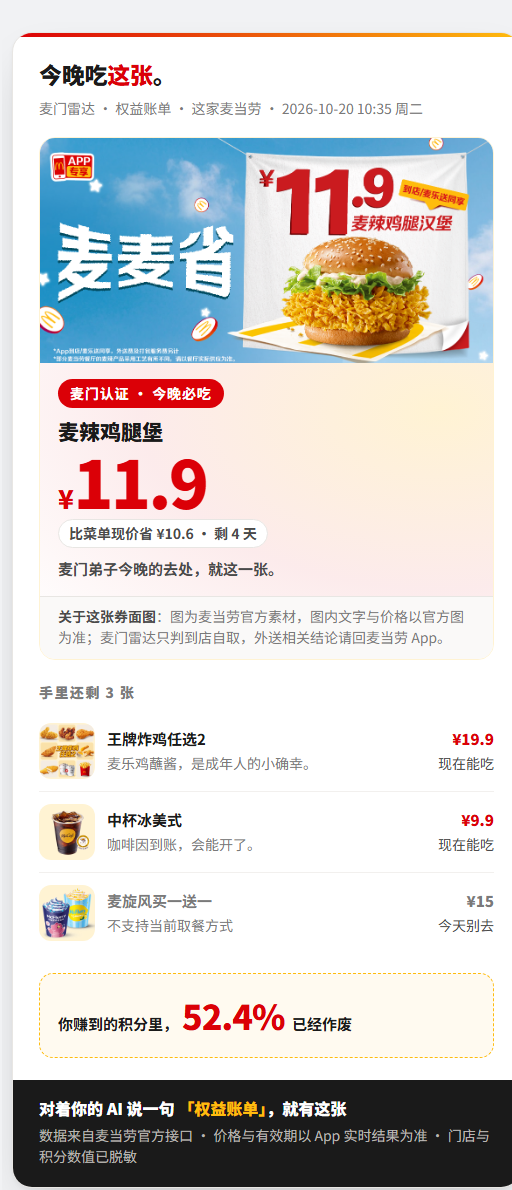
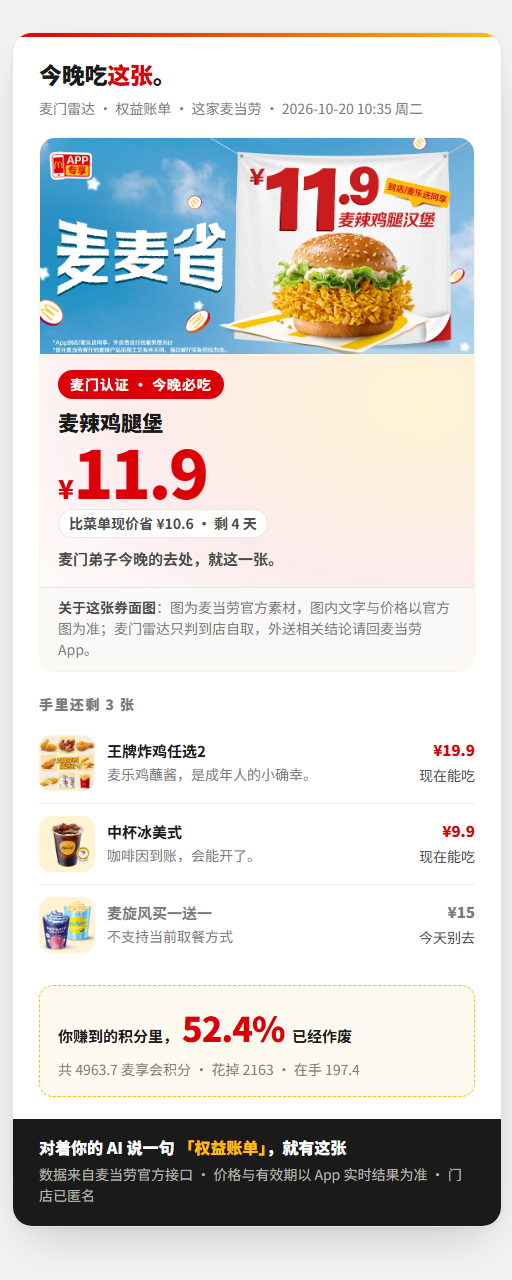
卡片收成两档：脱敏只剩门店身份一条硬线
「生成卡片」不再反问"要不要脱敏"，直接交分享版，结尾一行给「发群」换档词。
反问是把判断责任甩给用户，而选错的那一次（选了"看全"又转发出去）收不回来。

分享版放宽：积分数值绝对值与券名不再脱。券名可核销靠的是 code 不是标题，
积分数值不定位人；收掉之后卡片既答不了"那是哪张券"也答不了"还差多少分"。
于是脱敏只剩一条硬线＝门店身份——实测店名「麦当劳深圳龙胜地铁站D出口餐厅」
里嵌着城市+地铁站+出口编号，"只抹地址、留着店名"在数据上做不到，只能整块换称谓。

三处让它不只靠文档：check-share 新增【模型不许分叉】逐字节比对两版 model；
积分绝对值与真券名改成正向断言（谁改回脱敏就红）；门店定位片段按 4 字滑窗拉黑，
发群卡的店名写死匿名称谓、不看开关。

带门店地址的那张自用卡片撤出交付档：demo 不带 --share 只落 dist/demo.txt，
少一个出口就少一种"截错图发进群"。keepTitles / categorize / CATEGORY_RULES /
points.showAbsolute 随旧口径一起退役。入口词按用户嘴里的那句写
（发群 / 发到群里 / 给朋友看看），「传播版」「拉新」属内部命名，不进回复。
README 三图并两张，统一裁到 512×1280。

diff --git a/SKILL.md b/SKILL.md
@@ -110,7 +110,7 @@ description: 麦门雷达 —— 麦当劳（金拱门 / McDonald's / mcdonalds 
 | 积分能换啥 | `query-my-account` + `mall-points-products` | 按 元值/积分 性价比选锚点做具象化 | 账户级＋全国（积分余额是账户的，商城目录不分店） |
 | 替我领取优惠券 | `available-coupons` 报数 → 等用户回「领」 → `auto-bind-coupons` → 再查一次做 diff | 新增哪几张、哪几张大概用不上 | 账户级（入参无 storeCode，不分店） |
 | 绑店 / 换店 / 出差 | 零输入流程，见下「绑店 / 换店」节 | 收藏候选编号 → 确认 → `bindStore` 落盘 | 门店级（本行就是定这家店） |
-| 生成卡片 | 同一 model；账单版 `share:true`，传播版 `share:true + keepTitles:true` | 两种脱敏口径的 HTML，见下 | 门店级数据／卡片脱店名——对话里那句点名仍要说 |
+| 生成卡片 | 同一份脱敏 model 出两张：默认 `--share`，话里带"群"再加 `--propagate` | 分享版 / 发群版两张 HTML，差别在版面不在脱敏，见下 | 门店级数据／卡片脱店名——对话里那句点名仍要说 |
 | 最近有啥活动 | `campaign-calendar` | 活动日历速览（次要模块，问才答） | 全国（实测入参无 storeCode、响应无任何地域键，**不许**挂店名） |
 | 上新了什么 / 最近上新 | `query-meals` 引用 tags 精确等于 `上新` | 当期全量新品：现价 + 麦金卡价（如有）；权益账单里常驻一段 | 门店级（实测两店有 20 个店独占单品，新品随店不同） |
 
@@ -144,31 +144,40 @@ description: 麦门雷达 —— 麦当劳（金拱门 / McDonald's / mcdonalds 
 
 ## 输出形状
 
-**使用面**：`src/render-text.mjs` 的单一事实版式。纯 Unicode，聊天/终端/README 四处通用，32 格时段条。
+**使用面（对话里，不是卡片）**：`src/render-text.mjs` 的单一事实版式。纯 Unicode，聊天/终端/README 四处通用，32 格时段条，印**真店名**——它的作用就是让用户看清此刻判的是哪家店，从来不该被转发，所以 `node src/demo.mjs` 不带 `--share` 时只落 `dist/demo.txt`，**不出 HTML**。带地址的那张卡片不是交付档：少一个出口就少一种"截错图发进群"。
 
-**账单分享面**：`src/render-html.mjs` 小票版卡片。同一份 `buildModel()` 输出，渲染器都不许碰原始响应。
+**分享面（默认交付的那一张）**：`src/render-html.mjs` 小票版卡片。同一份 `buildModel()` 输出，渲染器都不许碰原始响应。
 
-**拉新传播面**：`src/render-propagate.mjs`。目标不是"给自己看清楚了"，而是"发到群里别人会问这是啥"——首屏只放一张官方券面图 + 一个到手价 + 一句麦门腔，最小字号硬底线 14px（现状账单卡 10px，微信群 300px 显示宽度下实测不可读）。
+**发群面**：`src/render-propagate.mjs`。目标不是"给自己看清楚了"，而是"发到群里别人会问这是啥"——首屏只放一张官方券面图 + 一个到手价 + 一句麦门腔，最小字号硬底线 14px（现状账单卡 10px，微信群 300px 显示宽度下实测不可读）。
 
-脱敏在**模型层**做，不在渲染层做——否则文本版会漏。两个面的口径**不同**，因为敏感的东西不同：
+脱敏在**模型层**做，不在渲染层做——否则文本版会漏。**只剩一条硬线：门店身份**，其余差异全归版面：
 
-| | 账单分享版 `share:true` | 传播版 `share:true + keepTitles:true` |
-|---|---|---|
-| 券码 / 券id / accountId | 模型里就没有（`raw:null`） | 同 |
-| 门店名 | 脱（「一家麦当劳餐厅」） | 脱（「这家麦当劳」） |
-| 积分数值绝对值 | 脱（只出百分比） | 同 |
-| **券名** | **脱**（收成品类名） | **不脱**——可核销的是 `code` 不是标题，而传播恰恰需要真名 |
-| **券面图** | 不脱 | 不脱——官方营销素材，`couponImage`/`couponBand` 是刻意不受 `share` 影响的字段 |
+| | 使用面播报 | 分享版 `--share` | 发群版 `--propagate` |
+|---|---|---|---|
+| 券码 / 券id / accountId | 渲染层从不印 | 模型里就没有（`raw:null`） | 同 |
+| traceId / 拉取时刻 | 印（自用凭据） | 模型里清空 | 同 |
+| **门店身份** | **真店名**（点名就是它的作用） | 脱（「一家麦当劳餐厅」） | 脱（「这家麦当劳」，写死在渲染器里，不看开关） |
+| 积分数值绝对值 | 印 | **印**（原本脱，已废） | 印 |
+| 券名 | 真名 | **真名**（原本收成品类，已废） | 真名 |
+| 券面图 / 官方横幅 | — | 不脱 | 不脱——`couponImage`/`couponBand` 是刻意不受 `share` 影响的字段 |
+| 时间 | 倒计时 | 绝对时间（转发件不该带会走的数） | 绝对时间 |
+
+积分数值与券名不再脱：券名可核销靠的是 `code` 不是标题，积分数值不定位人；把它们收掉之后卡片既答不了"那是哪张券"也答不了"还差多少分"，等于白做。**店名为什么必须整块脱**：实测「麦当劳深圳龙胜地铁站D出口餐厅」里嵌着城市+地铁站+出口编号，"只抹地址、留着店名"在数据上做不到。
+
+结构上有三处让这条口径不只靠文档：分享版与发群版**共用同一份 model**（`src/check-share.mjs`【模型不许分叉】逐字节比对）、发群卡的店名写死匿名称谓、积分绝对值与真券名是**正向断言**（谁改回脱敏，闸门红）。
 
 取图降级链（`render-propagate.mjs`，顺序由真实账号实测决定）：① 券自带 `couponImage`（4/4 覆盖，含「任选」类菜单无 SKU 的券）② 门店券 `productCode` join 菜单图 ③ 券名模糊匹配菜单实体 ④ 盲盒占位。**③ 只许服务取图，绝不进金额口径**——图配错顶多难看，钱算错是事故。
 
+**入口词按用户嘴里的那句写**：说「生成卡片 / 出个卡片 / 分享版」→ 分享版；说「发群 / 发到群里 / 给朋友看看 / 炫一下」→ 发群版。**别把「传播版」「拉新」写进回复**——那是内部命名，用户不这么说话，说了也对不上。
+
 **生成卡片的链路（写死，别临场发挥）**——在技能目录（SKILL.md 所在目录）内按序尝试：
 
-1. `out/query-my-coupons.json` 存在 → 直接 `node src/demo.mjs --share`（`--store <code>` 可指定门店）；要出**发群用的传播版**则 `node src/demo.mjs --propagate`。
+1. `out/query-my-coupons.json` 存在 → 直接 `node src/demo.mjs --share`（`--store <code|别名>` 可临时指定门店）；用户话里带了群字样的加 `--propagate`，两个 flag 同时给就一次出两张。
 2. 没有 `out/` 但技能目录有 `.env` → 先逐个 `node tools/probe-mcp.mjs <tool>`（`query-my-coupons` / `query-my-account` / `query-nearby-stores --args '{"searchType":1,"beType":1}'` / `query-meals --args '{"storeCode":"<code>","beType":1,"orderType":1}'`）落进 `out/`，再跑 demo。门店级工具按 storeCode 键落盘（`out/meals.<code>.json`），别手改文件名。
 3. 两样都没有 → 直接跑 demo（自动退回 `fixtures/` 样例），并**明示"样例数据卡片（快照日期见 fixtures）"**，不得冒充实时。
-4. 产出 `dist/demo.share.html`（账单分享版）或 `dist/propagate.html`（传播版）。对话里只给文件路径 + 一句说明（遵守输出纪律）。**绝不手写 HTML 卡片，绝不把原始 MCP JSON 直接喂渲染器**——渲染只走脚本一条路。
-5. 出卡片前必须三个闸门都过：`node src/check.mjs`（判定与官方一致）+ `node src/check-share.mjs`（脱敏与取图口径）+ `node src/check-store.mjs`（门店由绑定决定、菜单与门店同源）。任一不过，不许交付。
+4. 产出 `dist/demo.share.html`（分享版）或 `dist/propagate.html`（发群版）。对话里只给文件路径 + 一句说明（遵守输出纪律）。**绝不手写 HTML 卡片，绝不把原始 MCP JSON 直接喂渲染器**——渲染只走脚本一条路。
+5. **结尾一行给换档提示，不许先问**：默认直接交出分享版，然后一句"要发群说『发群』"。反问"你要不要脱敏"是最差的形态——用户不知道两张卡差在哪，而选错的那一次（选了"看全"又转发出去）收不回来；先给安全的那张、再给一行换档词，两档都让人发现，且一次问都不用。
+6. 出卡片前必须三个闸门都过：`node src/check.mjs`（判定与官方一致）+ `node src/check-share.mjs`（脱敏与取图口径）+ `node src/check-store.mjs`（门店由绑定决定、菜单与门店同源）。任一不过，不许交付。
 
 ## 麦门语气（硬规则）
 
